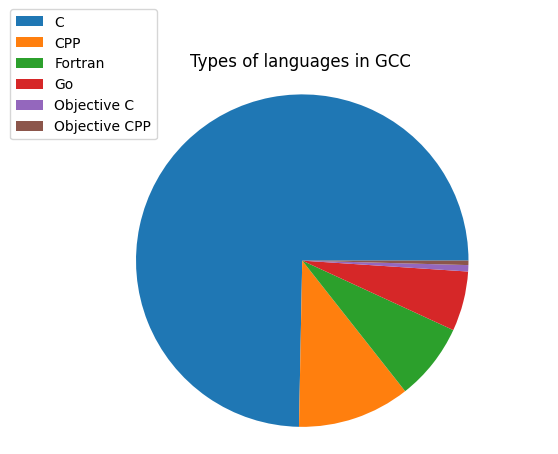
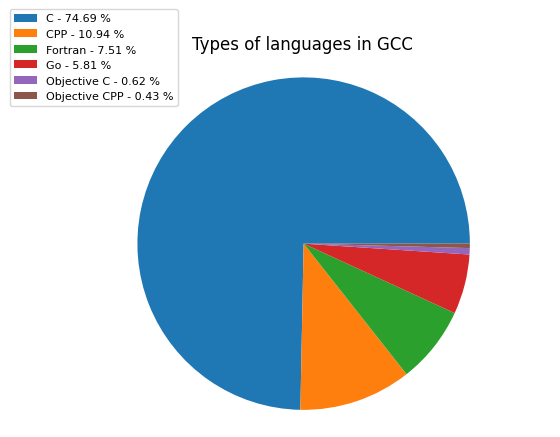
updated piechart

diff --git a/gen_figures.py b/gen_figures.py
@@ -1,7 +1,7 @@
 import pandas as pd
 import matplotlib.pyplot as plt
 from pandas.api.types import CategoricalDtype
-
+import numpy as np
 
 def generateExtensionPlot():
     df = pd.read_csv("csv-data/ExtensionsData.csv")
@@ -10,7 +10,10 @@ def generateExtensionPlot():
     colors = ["#1f77b4", "#ff7f0e", "#2ca02c", "#d62728", "#8c564b"]
     explode = (0, 0, 0, 0,0,0)  
     patches, texts = plt.pie(count_data,explode=explode)
-    plt.legend(patches, language_data, loc='center left', bbox_to_anchor=(-0.1, 1.))
+    y = np.array(list(count_data))
+    porcent = 100.*y/y.sum()
+    labels = ['{0} - {1:1.2f} %'.format(i,j) for i,j in zip(np.char.array(list(language_data)), porcent)]
+    plt.legend(patches, labels, loc='center left', bbox_to_anchor=(-0.1, 1.),fontsize=8)
     plt.axis('equal')
     plt.title("Types of languages in GCC")
     plt.savefig('figures/extension.png', bbox_inches='tight')
@@ -165,10 +168,10 @@ def quarterlyData():
 
 
 generateExtensionPlot()
-changesPerWeek()
-topContributers()
-quarterlyData()
-generateAssertFilesPlot()
-generateAssertFilesProdPlot()
-generateLanguageBasedTestFiles()
-generateLanguageBasedDebugFiles()
+# changesPerWeek()
+# topContributers()
+# quarterlyData()
+# generateAssertFilesPlot()
+# generateAssertFilesProdPlot()
+# generateLanguageBasedTestFiles()
+# generateLanguageBasedDebugFiles()
